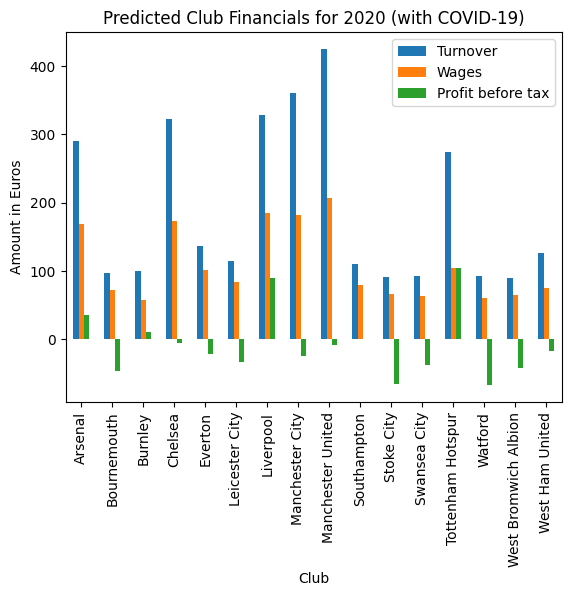
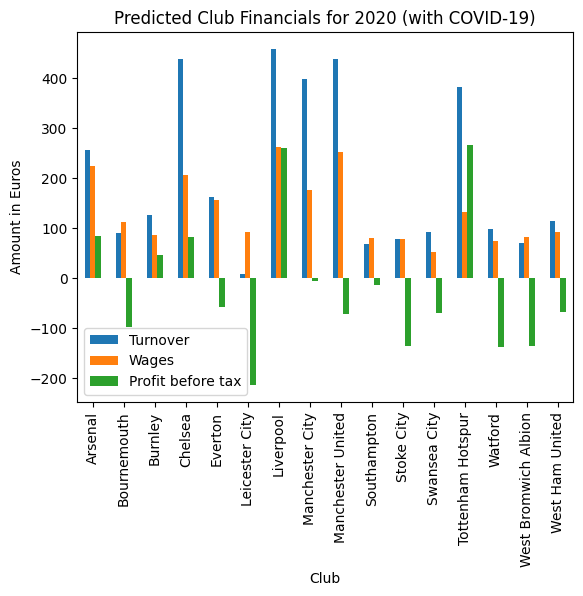
added tests

diff --git a/covid19_total_revenue.py b/covid19_total_revenue.py
@@ -7,6 +7,74 @@ What will the effect of COVID-19 be on the total revenue of the Premier League?
 
 import pandas as pd
 import matplotlib.pyplot as plt
+import numpy as np
+
+
+def test_dfs():
+    '''
+    test_dfs runs functions and makes sure that they return correct values
+    throws exception if function performs incorrectly
+    '''
+    # test extrapolate_2020_data with input test_17 and test_18
+    test_17 = pd.DataFrame({
+        'Club': ['Club one', 'Turnover', 'Wages', 'Club four'],
+        'Test Column': [1]*4,
+        'Extra Test': [0]*4
+    })
+    test_18 = pd.DataFrame({
+        'Club': ['Club 1', 'Turnover', 'Wages', 'Club Four'],
+        'Test Column': [2]*4,
+        'Extra Test': [0]*4
+    })
+
+    expected = pd.DataFrame({
+        'Club': ['Turnover', 'Wages'],
+        'Test Column': [(2-1)*2 + 2]*2,     # 2*(v18 - v17) + v18
+        'Extra Test': [0]*2
+    })
+    received = extrapolate_2020_data(test_17, test_18)
+    if not expected.equals(received):
+        raise Exception('extrapolate_2020_data did not pass tests')
+
+    # test covid_effects
+    test_data = pd.DataFrame({
+        'Club': ['club1', 'club2'],
+        'Turnover': [100, 200],
+        'Wages': [10, 20],
+        'Profit before tax': [25, 50],
+        'Match income': [12, 24],
+        'TV and broadcasting': [45, 90],
+        'Retail': np.nan*2,
+        'Commercial': [150, 300],
+        'Property development': [4, 8],
+        'Player trading': np.nan*2,
+        'Net debt': [16, 32],
+        'Interest payable': [5, 10],
+        'Highest paid director': [7, 14],
+        'Events': [1, 2],
+        'Other': [3, 6]
+    })
+    expected = pd.DataFrame({
+        'Club': ['club1', 'club2'],
+        'Turnover': [100*0.72, 200*0.72],
+        'Wages': [10*0.7, 20*0.7],
+        'Profit before tax': [25-35.0, 50-35.0],
+        'Match income': [12*0.76, 24*0.76],
+        'TV and broadcasting': [45*0.765, 90*0.765],
+        'Retail': np.nan * 2,
+        'Commercial': [150*0.816, 300*0.816],
+        'Property development': [0.0, 0.0],
+        'Player trading': np.nan * 2,
+        'Net debt': [16.0, 32.0],
+        'Interest payable': [5.0, 10.0],
+        'Highest paid director': [7*0.7, 14*0.7],
+        'Events': [0.0, 0.0],
+        'Other': [3.0, 6.0]
+    })
+    received = covid_effects(test_data)
+
+    if not expected.equals(received):
+        raise Exception('covid_effects did not pass tests')
 
 
 def import_data(file_name):
@@ -19,11 +87,9 @@ def import_data(file_name):
 def extrapolate_2020_data(data_17, data_18):
     '''
     extrapolate_2020_data takes data from 2017 and 2018 to predict the state
-    of clubs across the league in 2020. Writes a csv to the current directory
-    with the information in addition to a png plot.
+    of clubs across the league in 2020.
     Returns the 2020 predicted data
     '''
-
     # find mutual teams and filter so only teams in both sets are there
     mutual_teams = [val for val in data_17['Club'].tolist()
                     if val in data_18['Club'].tolist()]
@@ -32,19 +98,12 @@ def extrapolate_2020_data(data_17, data_18):
 
     # find delta
     field_names = [val for val in data_18.columns if val != 'Club']
-    delta_df = data_18.loc[:, field_names] - data_18.loc[:, field_names]
+    delta_df = data_18.loc[:, field_names] - data_17.loc[:, field_names]
 
     # to extrapolate we need to add 2(delta) to 2018 and add clubs
     data_20 = data_18.loc[:, field_names] + (2 * delta_df)
     data_20.insert(0, 'Club', mutual_teams)
-
-    # save csv and make plot
-    data_20.to_csv('predicted_financials_2020.csv')
-    cols = ['Turnover', 'Wages', 'Profit before tax']
-    data_20.plot(x='Club', y=cols, kind='bar')
-    plt.title('Predicted Club Financials for 2020 (no COVID-19)')
-    plt.ylabel('Amount in Euros')
-    plt.savefig('predicted_financials_2020.png', bbox_inches='tight')
+    del data_20['index']
 
     return data_20
 
@@ -52,8 +111,7 @@ def extrapolate_2020_data(data_17, data_18):
 def covid_effects(data_20):
     '''
     covid_effects takes the predicted 2020 data and returns the data adjusted
-    for the average calcualted losses due to COVID-19. Writes a csv to the
-    current directory and a png of the plot of basic stats.
+    for the average calcualted losses due to COVID-19.
     Returns a dataframe of predicted effects of COVID on financials in 2020
     '''
     # get the data that has information on losses due to COVID-19
@@ -72,14 +130,6 @@ def covid_effects(data_20):
     # add clubs column
     covid_df.insert(0, 'Club', data_20['Club'])
 
-    # write csv and plot
-    covid_df.to_csv('predicted_covid_financials_2020.csv')
-    cols = ['Turnover', 'Wages', 'Profit before tax']
-    covid_df.plot(x='Club', y=cols, kind='bar')
-    plt.title('Predicted Club Financials for 2020 (with COVID-19)')
-    plt.ylabel('Amount in Euros')
-    plt.savefig('predicted_covid_financials_2020.png', bbox_inches='tight')
-
     return covid_df
 
 
@@ -97,7 +147,23 @@ def get_total_revenue():
     # get extrapolated 2020 data
     predicted_20 = extrapolate_2020_data(data_17, data_18)
 
+    # save csv and make plot
+    predicted_20.to_csv('predicted_financials_2020.csv')
+    cols = ['Turnover', 'Wages', 'Profit before tax']
+    predicted_20.plot(x='Club', y=cols, kind='bar')
+    plt.title('Predicted Club Financials for 2020 (no COVID-19)')
+    plt.ylabel('Amount in Euros')
+    plt.savefig('predicted_financials_2020.png', bbox_inches='tight')
+
     # get covid predicted data based on 2020 data
     predicted_covid = covid_effects(predicted_20)
+
+    # write covid predicted csv and png
+    predicted_covid.to_csv('predicted_covid_financials_2020.csv')
+    cols = ['Turnover', 'Wages', 'Profit before tax']
+    predicted_covid.plot(x='Club', y=cols, kind='bar')
+    plt.title('Predicted Club Financials for 2020 (with COVID-19)')
+    plt.ylabel('Amount in Euros')
+    plt.savefig('predicted_covid_financials_2020.png', bbox_inches='tight')
 
     return predicted_covid

diff --git a/qualitative_player_value.py b/qualitative_player_value.py
@@ -36,6 +36,7 @@ def import_csv(file_name):
     # modify columns for trait features, encode 1 if they have 0 if not
     for feature in trait_features:
         data[feature] = data['player_traits'].str.contains(feature).astype(int)
+    del data['player_traits']   # added  
 
     return data
 
@@ -48,9 +49,11 @@ def build_model(data):
     'features': features_list, 'label': label_name}
     '''
     # get the features and labels from data
-    feature_mask = (data.columns != 'player_traits') & \
-        (data.columns != 'value_eur')
-    features = data.loc[:, feature_mask]
+    # feature_mask = (data.columns != 'player_traits') & \
+    #     (data.columns != 'value_eur')
+    # features = data.loc[:, feature_mask]
+    # modified   
+    features = data.loc[:, data.columns != 'value_eur']
     labels = data['value_eur']
 
     # split data into test and training
